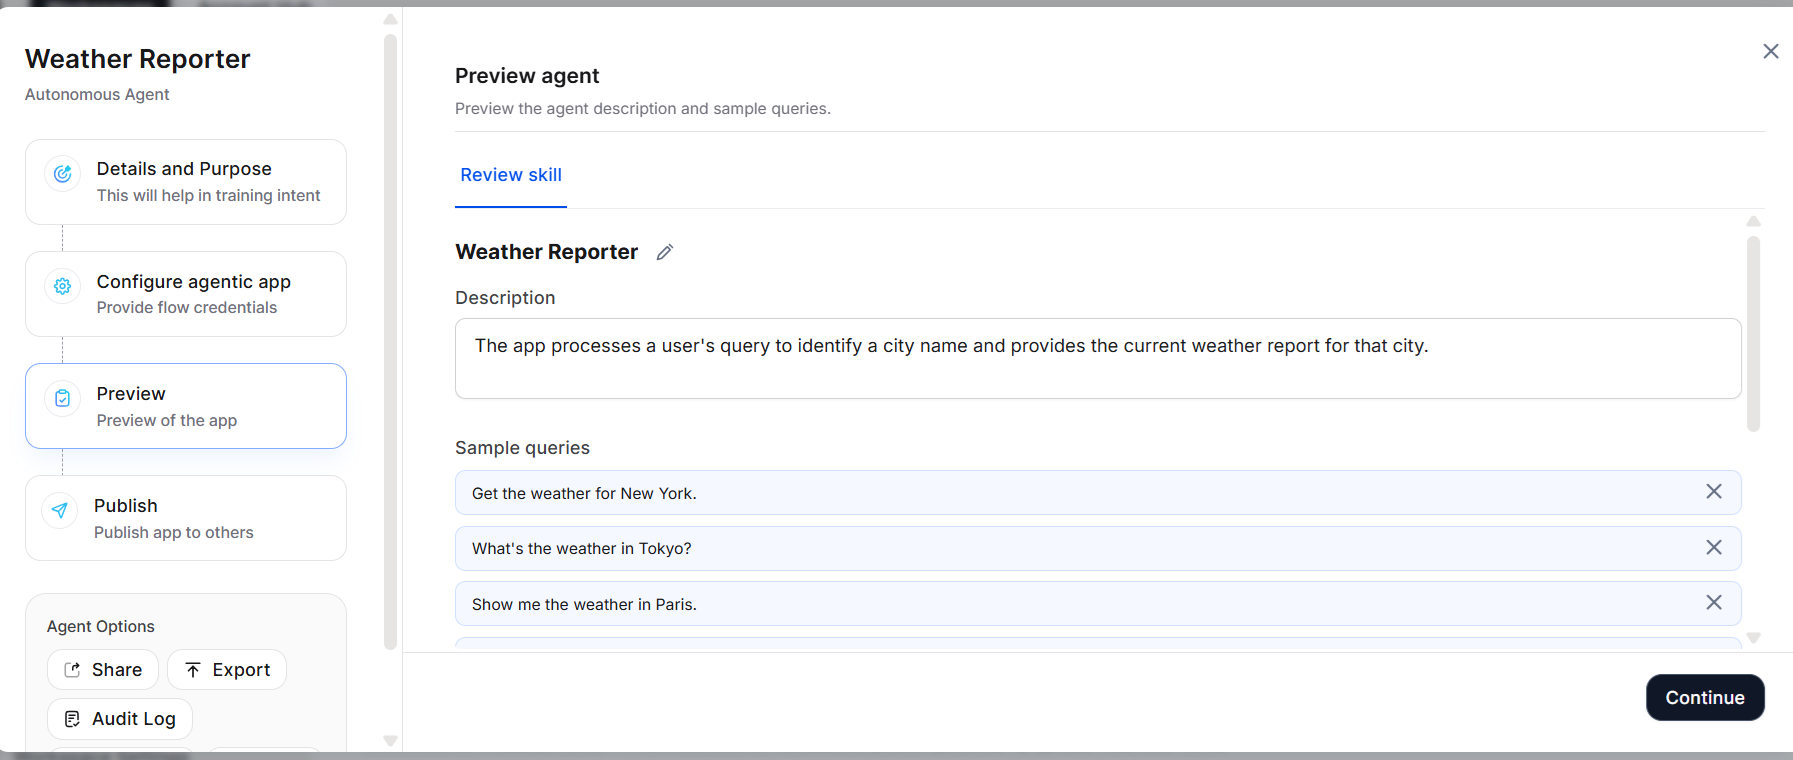
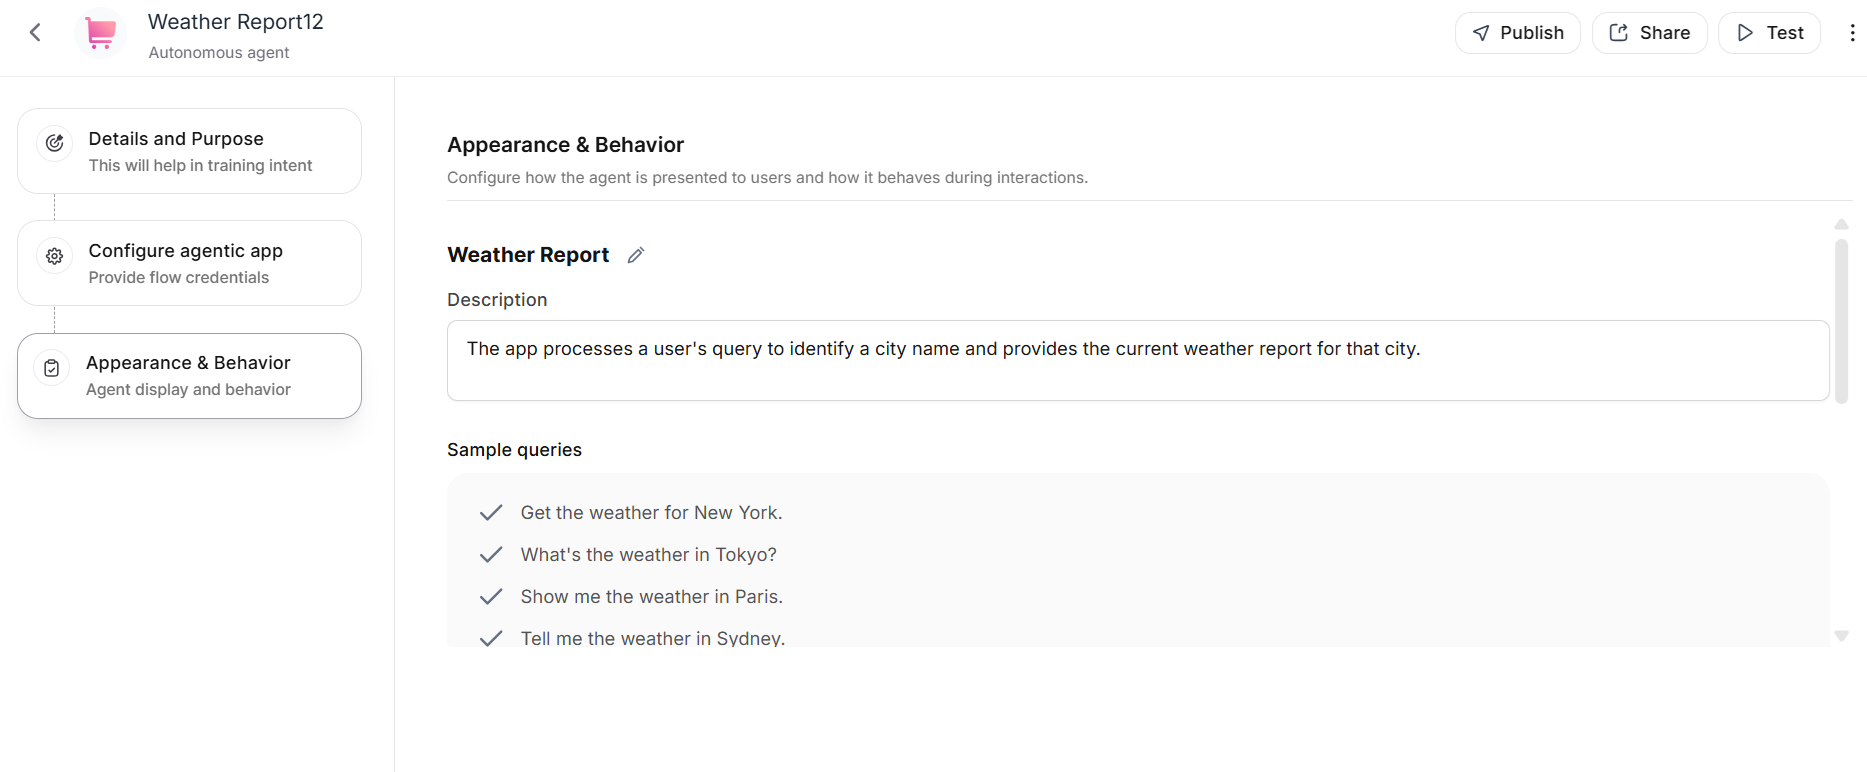
Release backlog work

diff --git a/overrides.en.eva/home/home.html b/overrides.en.eva/home/home.html
@@ -671,7 +671,7 @@
             <section class="mdc-services">
                 <a href="../custom-agents/enterprise-knowledge/"  class="mdc-services-block">
                     <div class="mdc-services-icon">
-                        <img src="assets/search-agents.svg" style="zoom:75%" alt="Enterprise Knowledge">
+                        <img src="assets/enterprise-knowledge.svg" style="zoom:75%" alt="Enterprise Knowledge">
                     </div>
                     <div class="mdc-services-info">
                         <h4 class="mdc-services-title">Enterprise Knowledge</h4>

diff --git a/docs/eva/custom-agents/autonomous-agent.md b/docs/eva/custom-agents/autonomous-agent.md
@@ -42,11 +42,12 @@ Follow these steps to create a new Autonomous Agent:
      3. Click **Import** to extract API details.
      <img src="../images/Advance_Agentic_App_2.png" alt="Admin Console" title="Admin Console" style="border: 1px solid gray; zoom:70%;">
 
-5. Preview: The **Preview** section displays sample queries to test the agent’s behavior.
+5. Appearance and Behavior: The **Appearance and Behavior** section displays sample queries to test the agent’s behavior.
      1. Click **+Add Query** to input additional test queries.
-     2. Once validated, click **Continue** to move to the final step.
+     2. Enable **Allow End User Notification** toggle to enable notification configuration and agent trigger setup, For detailed instructions, refer <a href="https://docs.kore.ai/ai-for-work/custom-agents/notify-api/" target="_blank">Notifications</a>.
+     3. Enable **Clear End-User Chat History** toggle to automatically delete the agent's chat history for end users after a specified period.
+     4. Once validated, click **Publish** to move to the final step.
      <img src="../images/Advance_Agentic_App_3.png" alt="Admin Console" title="Admin Console" style="border: 1px solid gray; zoom:70%;">
-
 
 6. Publish: Publish your agent and define access permissions and enablement.
 

diff --git a/docs/eva/custom-agents/bot-agents.md b/docs/eva/custom-agents/bot-agents.md
@@ -105,15 +105,20 @@ activated, follow the integration steps to complete the process:
 
 2. Click **Connect account** to move to the next step.
 
-#### Step 3: Preview
+#### Step:3 Appearance and Behavior
 
-In the **Preview** section, a sample of queries is displayed. If necessary, you
-can click the **+ Add Query** button to add any other queries. Click
-**Continue** to move to the next step.
+The **Appearance and Behavior** section displays sample queries to test the agent’s behavior.
+
+1. Click **+Add Query** to input additional test queries.
+2. Enable **Allow End User Notification** toggle to enable notification configuration and agent trigger setup, For detailed instructions, refer <a href="https://docs.kore.ai/ai-for-work/custom-agents/notify-api/" target="_blank">Notifications</a>.
+3. Enable **Clear End-User Chat History** toggle to automatically delete the agent's chat history for end users after a specified period.
+4. Once validated, click **Publish** to move to the final step.
 
 ![](images/preview_bot.png)
 
-#### Step 4: Publish your agent and define access permissions and enablement.
+#### Step 4: Publish
+
+Publish your agent and define access permissions and enablement.
 
 **Specify publishing details**:
 

diff --git a/docs/eva/custom-agents/workflow-agents.md b/docs/eva/custom-agents/workflow-agents.md
@@ -151,12 +151,14 @@ steps outlined below:
 
 11.  Click **Continue** to move to the next step.
 
-###  <a id="preview">Step 3: Preview</a>
+###  <a id="preview">Step 3: Appearance and Behavior
 
-In the **Preview** section, a list of sample queries is displayed. If needed,
-you can add additional queries by clicking the **+ Add Query** button. Once
-you're ready, click **Continue** to proceed to the next
-step.![](images/preview_gale.png)
+The **Appearance and Behavior** section displays sample queries to test the agent’s behavior.
+
+1. Click **+Add Query** to input additional test queries.
+2. Enable **Allow End User Notification** toggle to enable notification configuration and agent trigger setup, For detailed instructions, refer to , refer <a href="https://docs.kore.ai/ai-for-work/custom-agents/notify-api/" target="_blank">Notifications</a>.
+3. Enable **Clear End-User Chat History** toggle to automatically delete the agent's chat history for end users after a specified period.
+4. Once validated, click **Publish** to move to the final step.
 
 ###    <a id="publish">Step 4: Publish
 

diff --git a/docs/eva/custom-agents/prompt-agents.md b/docs/eva/custom-agents/prompt-agents.md
@@ -189,12 +189,10 @@ You have options to set either an Entity Rule or Answering Rule.
 
 ![](images/Business_Rule.png)
 
-### <a id="preview">Step 4: Preview</a>
+### <a id="preview">Step 4: Appearance and Behavior </a>
 
-In the **Preview** section, a list of sample queries are displayed. If needed,
-you can add additional queries by clicking the **+ Add Query** button. Once
-you're ready, click **Continue** to proceed to the next
-step.![](images/preview.png)
+In the **Appearance and Behavior** section, a list of sample queries are displayed. If needed,
+you can add additional queries by clicking the **+ Add Query** button. Enable **Clear End-User Chat History** toggle to automatically delete the agent's chat history for end users after a specified period. Once you're ready, click **Publish** to proceed to the next step.![](images/preview.png)
 
 ### <a id="publish">Step 5: Publish Prompt Agent</a>
 

diff --git a/docs/eva/custom-agents/agentic-flows.md b/docs/eva/custom-agents/agentic-flows.md
@@ -41,12 +41,10 @@ Customize the agent's workflow using a prompt-based interface.
 4. Click **Run** to execute all configured steps sequentially.
 5. Click **Continue** to proceed to the next step.  
 
-### Step 3: Preview
+### Step 3: Appearance and Behavior
 
-The **Preview** section displays sample queries to test the agent’s behavior.
-
-1. Click **+Add Query** to input additional test queries.
-2. Once validated, click **Continue** to move to the final step.  
+In the **Appearance and Behavior** section, a list of sample queries are displayed. If needed,
+you can add additional queries by clicking the **+ Add Query** button. Enable **Clear End-User Chat History** toggle to automatically delete the agent's chat history for end users after a specified period. Once you're ready, click **Publish** to proceed to the next step. 
 
 ### Step 4: Publish
 

diff --git a/docs/eva/custom-agents/search-agents.md b/docs/eva/custom-agents/search-agents.md
@@ -158,12 +158,10 @@ You need to associate four [API Scope](https://docs.kore.ai/xo/apis/automation/a
 - Facets
 
 
-### Step 3: Preview
+### Step 3: Appearance and Behavior
 
-Review the skills generated for the agent based on the purpose defined. The system uses
-Generative AI to create sample queries to which the agent can respond. You can
-**add, modify, or remove** sample queries to refine the agent's interaction
-capabilities.
+In the **Appearance and Behavior** section, a list of sample queries are displayed. If needed,
+you can add additional queries by clicking the **+ Add Query** button. Enable **Clear End-User Chat History** toggle to automatically delete the agent's chat history for end users after a specified period. Once you're ready, click **Publish** to proceed to the next step.
 
 ![](images/preview.png)
 

diff --git a/docs/eva/release-notes/release-updates.md b/docs/eva/release-notes/release-updates.md
@@ -28,10 +28,6 @@ Domain Types:
 * Company Domains: Enable automatic sign-in when domain-based enrollment is active.
 * Partner Domains: Require explicit invitations and support access to multiple tenant accounts.
 
-!!! note
-
-    All domains undergo verification before activation, with rejected domains maintained for comprehensive audit trials.
-
 [Learn more :octicons-arrow-right-24:](../security/domain-management.md)
 
 **Real-time Query Execution Status**
